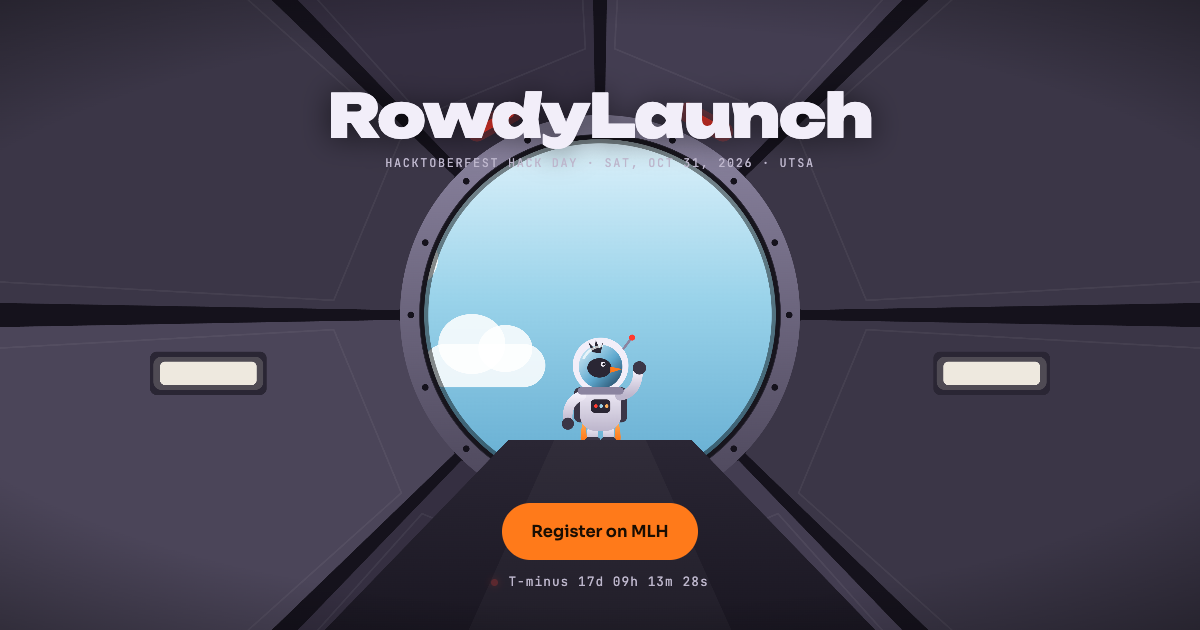
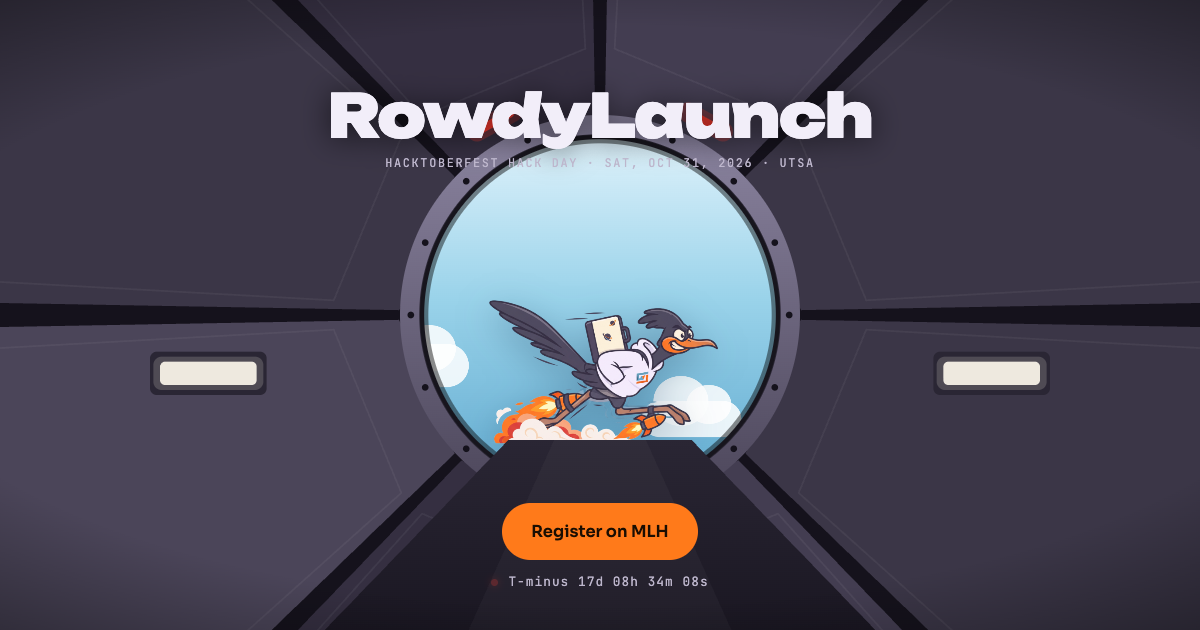
RowdyLaunch roadrunner mascot: sprinting founder on rocket boosters, replaces the Octocat placeholder

Changed region(s): [[0.3392, 0.4524, 0.6167, 0.7238], [0.5242, 0.9048, 0.555, 0.9349]]

diff --git a/src/styles.css b/src/styles.css
@@ -137,9 +137,10 @@ button { font: inherit; color: inherit; }
 @media (prefers-reduced-motion: no-preference) { .porthole-view .cloud { animation: drift linear infinite; } }
 @keyframes drift { from { transform: translateX(-140%); } to { transform: translateX(260%); } }
 
-.mascot { position: absolute; left: 50%; top: 54%; width: 34%; height: auto; margin-left: -17%; }
-@media (prefers-reduced-motion: no-preference) { .mascot { animation: hover 4s ease-in-out infinite; } }
-@keyframes hover { 0%, 100% { translate: 0 0; } 50% { translate: 0 -6%; } }
+/* sprinting roadrunner, landscape; sits low in the porthole and bobs as it runs */
+.mascot { position: absolute; left: 50%; top: 46%; width: 66%; height: auto; margin-left: -33%; filter: drop-shadow(0 10px 18px rgba(28, 59, 87, 0.35)); }
+@media (prefers-reduced-motion: no-preference) { .mascot { animation: sprint 0.9s ease-in-out infinite; } }
+@keyframes sprint { 0%, 100% { translate: 0 0; } 50% { translate: 1.5% -3%; } }
 
 .hero .copy {
   position: absolute; inset: 0; display: grid; grid-template-rows: auto 1fr auto; justify-items: center; pointer-events: none;

diff --git a/src/components/Hero.tsx b/src/components/Hero.tsx
@@ -52,7 +52,7 @@ export default function Hero() {
             <span className="cloud" style={{ width: "46%", height: "16%", left: "0%", top: "26%", animationDuration: "38s" }} />
             <span className="cloud" style={{ width: "34%", height: "12%", left: "20%", top: "58%", animationDuration: "52s", animationDelay: "-20s" }} />
             <span className="cloud" style={{ width: "28%", height: "10%", left: "-10%", top: "74%", animationDuration: "44s", animationDelay: "-9s" }} />
-            <img className="mascot" src="/mascot.png" alt="" width={896} height={896} />
+            <img className="mascot" src="/mascot.png" alt="" width={960} height={614} />
           </m.div>
 
           <m.div className="hull" style={still ?? { scale: hullScale, opacity: hullOpacity }} aria-hidden="true">

diff --git a/src/components/Sections.tsx b/src/components/Sections.tsx
@@ -245,7 +245,6 @@ export function Footer() {
             <a href={event.mlhEventUrl} target="_blank" rel="noopener">Event on MLH</a>
             <a href={event.hacktoberfestUrl} target="_blank" rel="noopener">Hacktoberfest</a>
             <a href={event.repoUrl} target="_blank" rel="noopener">Site source</a>
-            <a href="https://octodex.github.com/" target="_blank" rel="noopener">Octocat by GitHub</a>
           </div>
         </div>
         <p className="fine">

diff --git a/README.md b/README.md
@@ -34,7 +34,7 @@ Design references, in priority order: the Octocat-at-the-airlock image in `~/Des
 
 ## Assets
 
-- `public/mascot.png` is Jetpacktocat from GitHub's Octodex (https://octodex.github.com/), used as a placeholder with a footer credit. GitHub's Octodex FAQ does not cover this use, so replace it with original art before the event. An original SVG attempt is in git history (src/components/Mascot.tsx, removed 2026-10-14).
+- `public/mascot.png` is the RowdyLaunch roadrunner: a founder in a hoodie sprinting on rocket boosters with a laptop bag. Generated with Gemini on 2026-10-14 from a RowdyLaunch prompt, background keyed out. Source files and two alternate directions (rocket rider, rocket mark) are in `~/Desktop/hacktoberfest/inspo/05-mascot`. Have it redrawn as a vector if it becomes the permanent org mascot.
 - `public/favicon.svg` is drawn in place. `public/og.png` is the link-preview image; regenerate it if the hero changes.
 - Fonts are self-hosted in `public/fonts` (latin subsets of Unbounded, Sora and JetBrains Mono, OFL licensed).
 - No MLH trust badge: that asset is for MLH Member Events. The event is linked from the nav, the hero and the footer instead.
